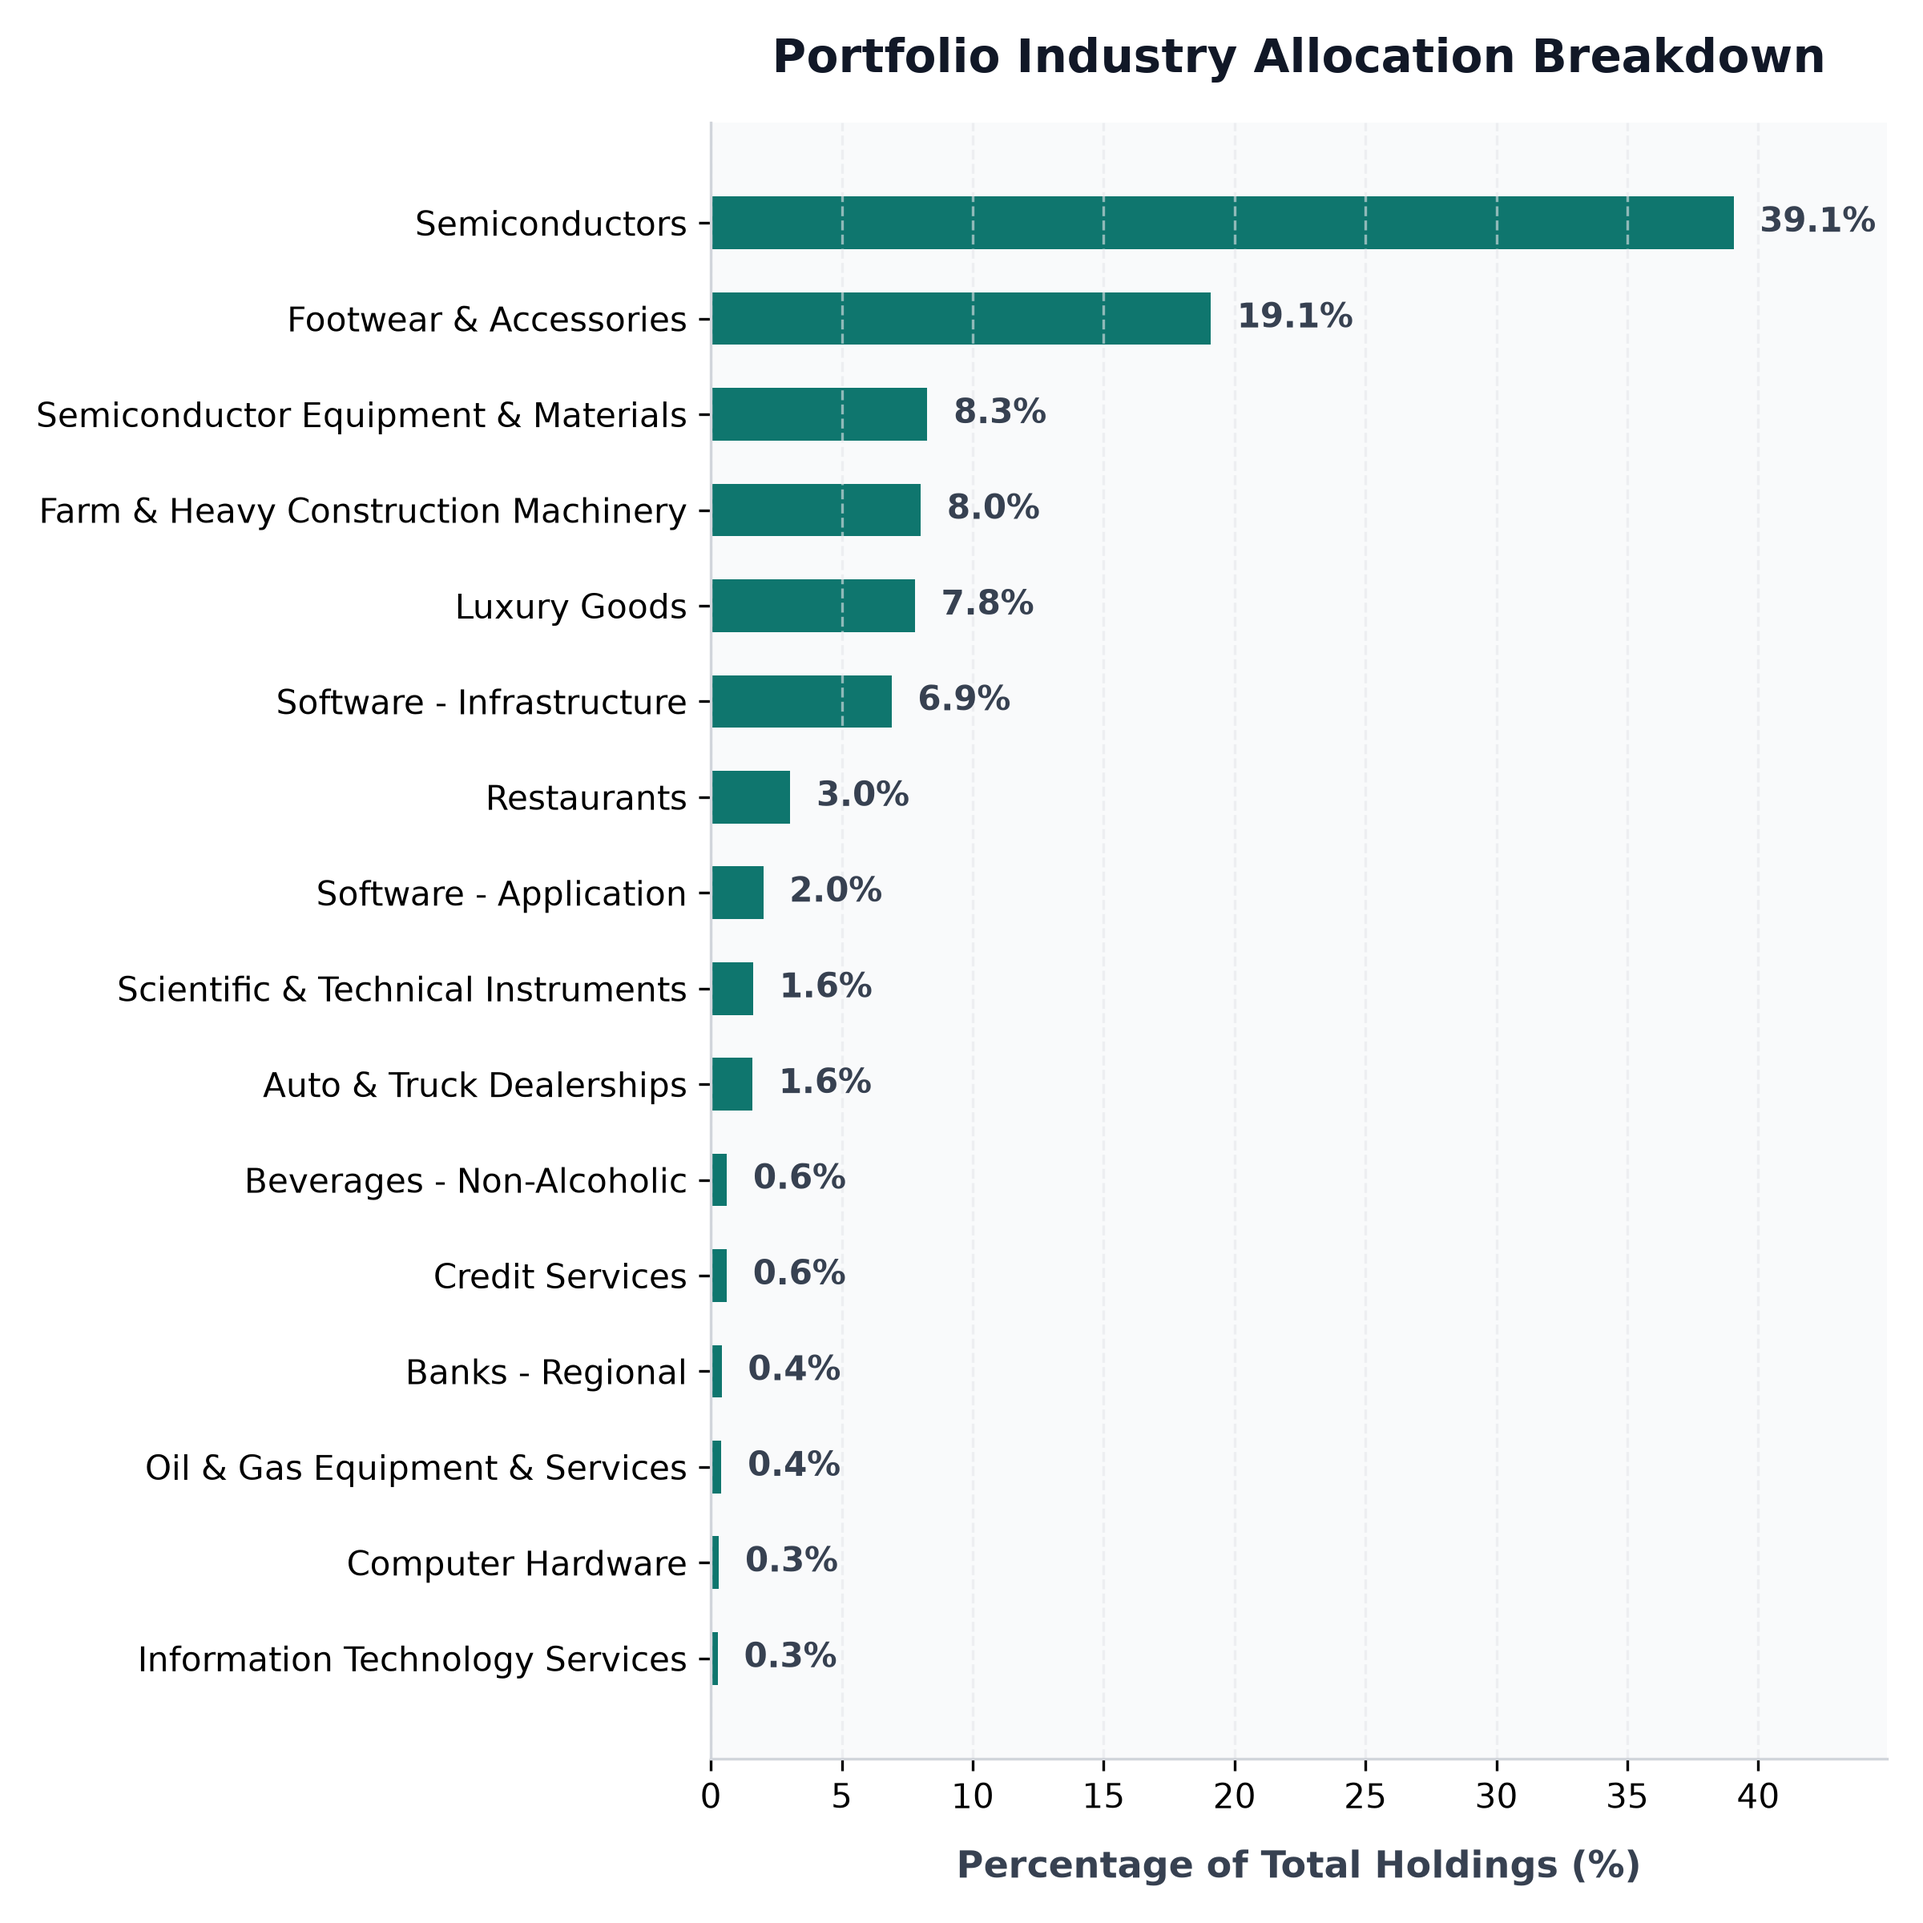
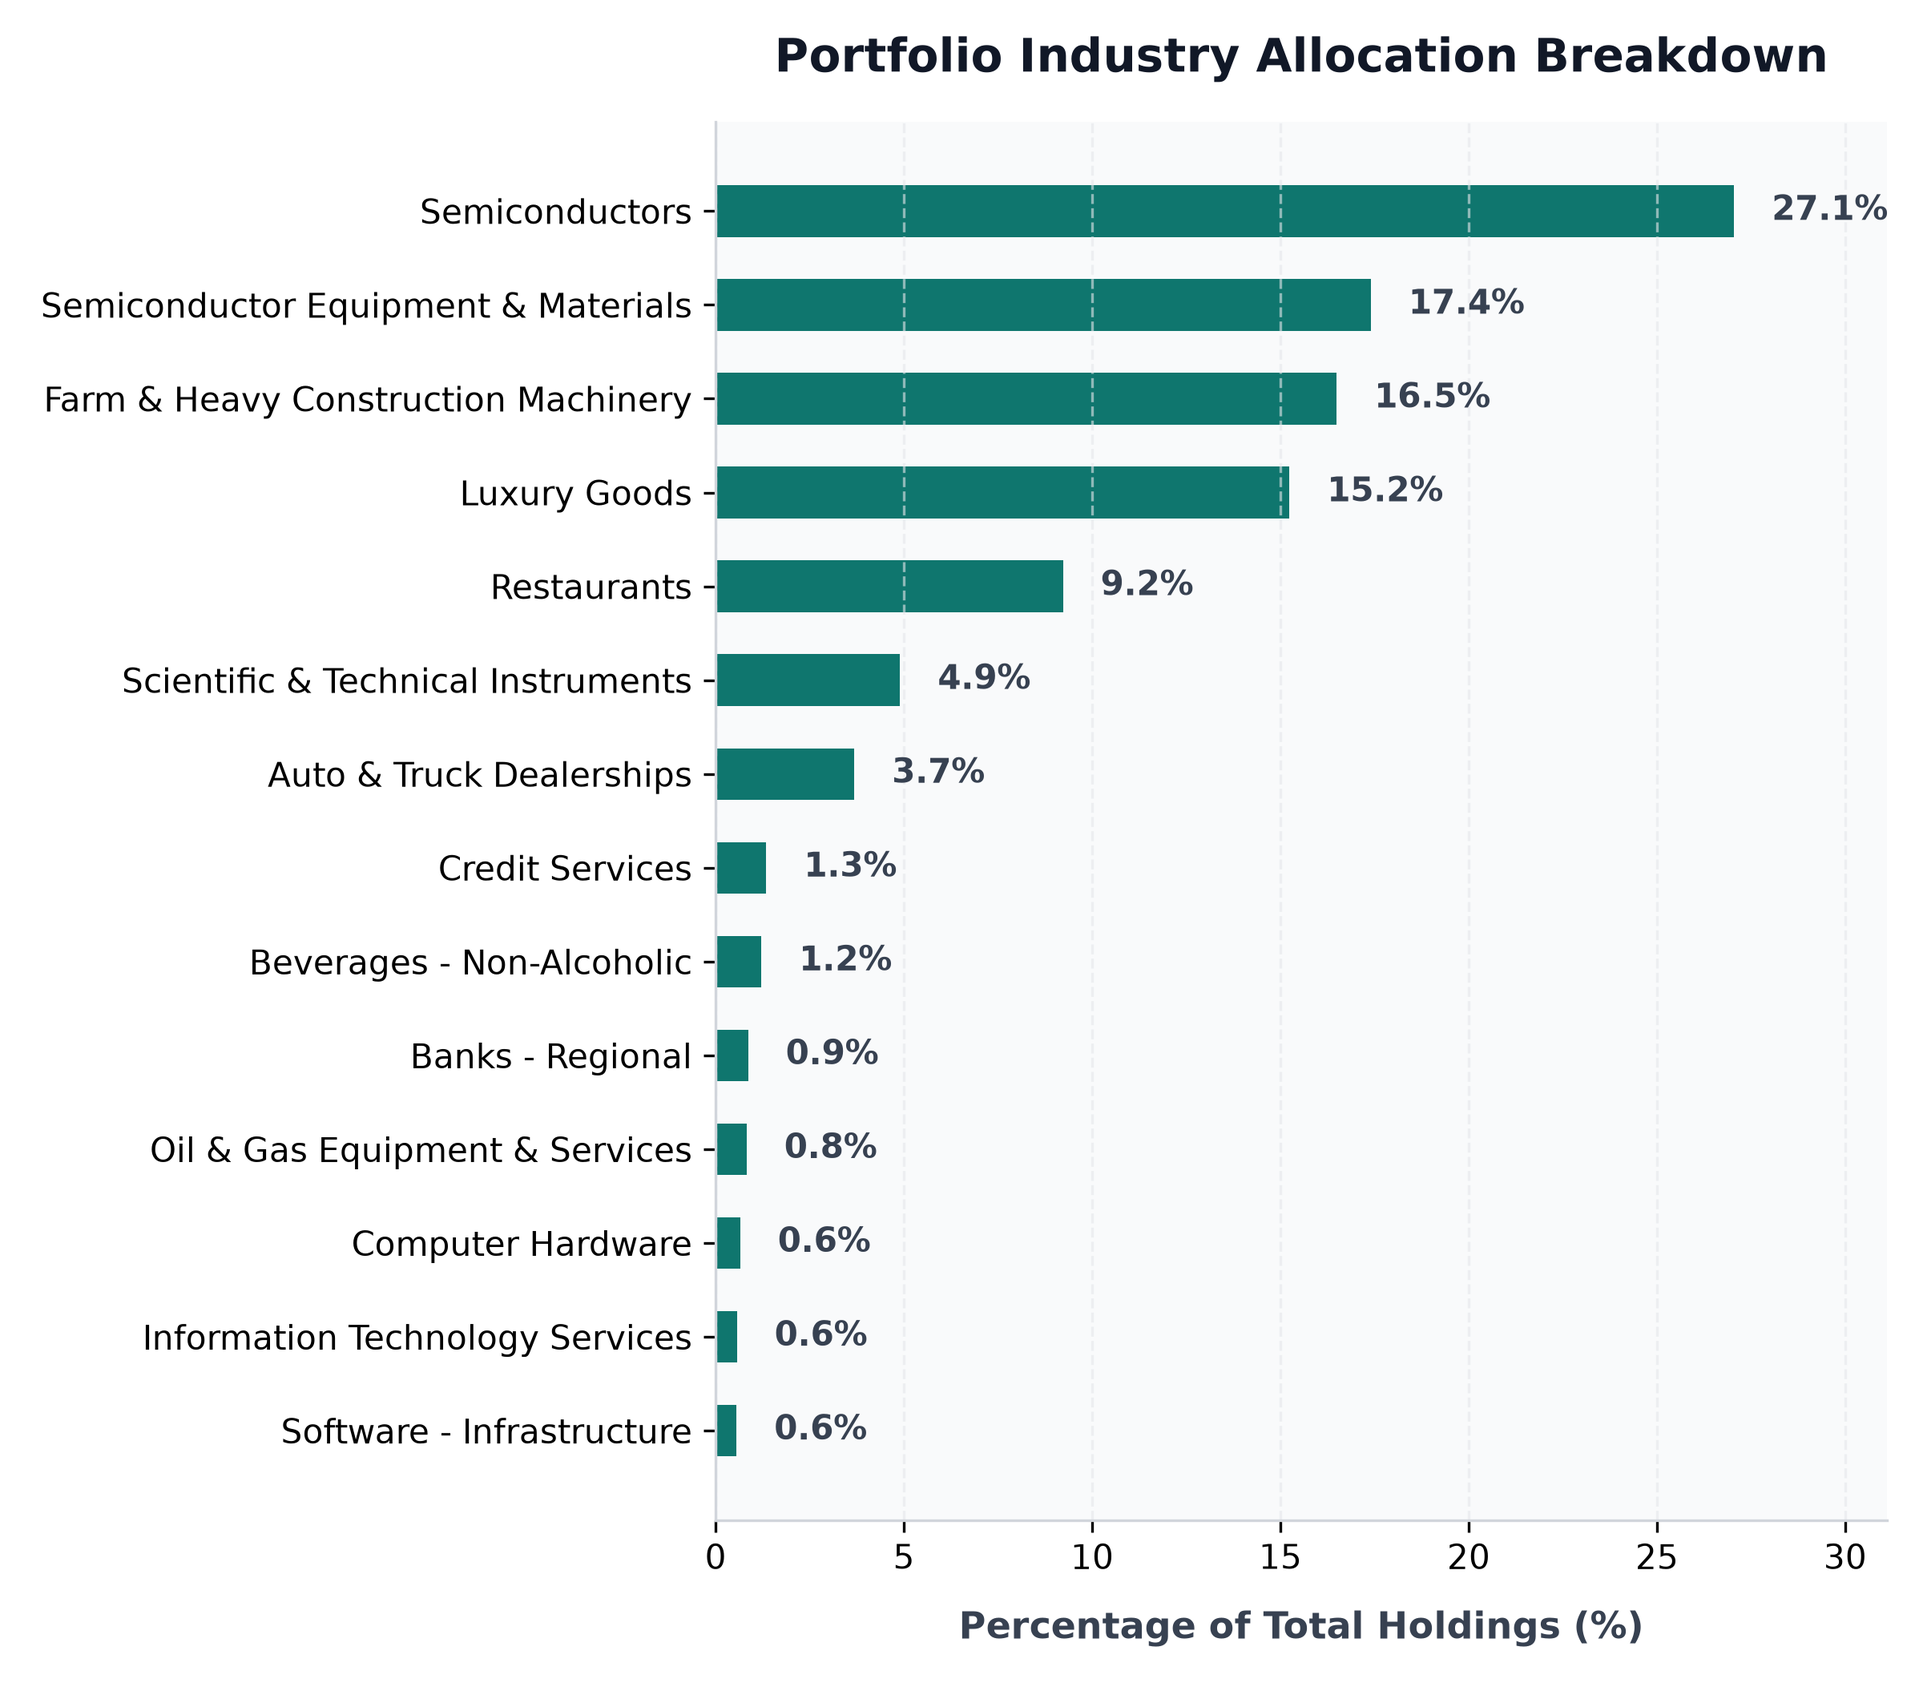
auto: daily portfolio status update - 2026-11-21 06:05:12

diff --git a/src/content/posts/portfolio-performance.md b/src/content/posts/portfolio-performance.md
@@ -1,6 +1,6 @@
 ---
 title: "BadOmen Algorithmic Portfolio Performance & PnL Report"
-pubDatetime: 2026-11-21T00:00:15.514154+08:00
+pubDatetime: 2026-11-21T06:05:12.624344+08:00
 description: "Live performance metrics, active holdings, and historic equity curve for the BadOmen automated paper trading portfolio."
 featured: true
 draft: false
@@ -16,11 +16,11 @@ Welcome to the live performance dashboard for **BadOmen**, our automated algorit
 ## 📊 Portfolio Summary
 | Performance Metric | Value | description |
 | :--- | :--- | :--- |
-| **Net Portfolio Equity** | **$96,818.51** | Total current liquidation value of cash and stock holdings |
-| **Total Unrealized P&L** | 🔴 **$-2,297.81** (-2.32%) | Total return of current open holdings |
-| **Cash Balance** | $24,218.11 | Idle reserve currency available for limit orders |
-| **Buying Power** | $285,134.61 | Margin-backed buying power for entry allocations |
-| **Report Updated** | `2026-11-21 00:00:15 (SGT)` | Timestamp of daily execution and sync run |
+| **Net Portfolio Equity** | **$95,846.89** | Total current liquidation value of cash and stock holdings |
+| **Total Unrealized P&L** | 🔴 **$-259.63** (-0.27%) | Total return of current open holdings |
+| **Cash Balance** | $72,025.62 | Idle reserve currency available for limit orders |
+| **Buying Power** | $351,489.62 | Margin-backed buying power for entry allocations |
+| **Report Updated** | `2026-11-21 06:05:12 (SGT)` | Timestamp of daily execution and sync run |
 
 ## 📈 Net Equity Growth Curve
 The chart below illustrates the historical performance of the account starting from our baseline capital funding of $100,000.00.
@@ -35,39 +35,32 @@ The chart below illustrates the exposure of our currently held active positions 
 ## 💼 Current Position Holdings
 | Ticker | Industry | Shares Owned | Average Entry Cost | Current Price | Unrealized P&L | Return (%) |
 | :--- | :--- | :--- | :--- | :--- | :--- | :--- |
-| **AN** | Auto & Truck Dealerships | 5 | $188.51 | $178.71 | 🔴 $-48.99 | -5.20% |
-| **AVGO** | Semiconductors | 1 | $385.71 | $315.60 | 🔴 $-70.11 | -18.18% |
-| **BIRK** | Footwear & Accessories | 407 | $37.32 | $34.05 | 🔴 $-1,329.96 | -8.76% |
-| **BLBD** | Farm & Heavy Construction Machinery | 103 | $62.88 | $56.49 | 🔴 $-657.90 | -10.16% |
-| **CELH** | Beverages - Non-Alcoholic | 15 | $29.71 | $29.75 | 🟢 +$0.63 | +0.14% |
-| **CPRI** | Luxury Goods | 310 | $13.78 | $18.25 | 🟢 +$1,385.70 | +32.44% |
-| **DUOL** | Software - Application | 10 | $129.49 | $145.15 | 🟢 +$156.59 | +12.09% |
-| **GDS** | Information Technology Services | 14 | $32.77 | $13.79 | 🔴 $-265.72 | -57.92% |
-| **GPI** | Auto & Truck Dealerships | 1 | $316.15 | $263.38 | 🔴 $-52.77 | -16.69% |
-| **ITRI** | Scientific & Technical Instruments | 12 | $81.80 | $97.93 | 🟢 +$193.56 | +19.72% |
-| **LRCX** | Semiconductor Equipment & Materials | 32 | $205.59 | $187.61 | 🔴 $-575.26 | -8.74% |
-| **MRVL** | Semiconductors | 75 | $131.18 | $126.00 | 🔴 $-388.86 | -3.95% |
-| **NESR** | Oil & Gas Equipment & Services | 16 | $28.74 | $18.40 | 🔴 $-165.44 | -35.98% |
-| **NU** | Banks - Regional | 26 | $11.60 | $11.54 | 🔴 $-1.52 | -0.51% |
-| **NVDA** | Semiconductors | 90 | $140.29 | $137.10 | 🔴 $-286.79 | -2.27% |
-| **ON** | Semiconductors | 100 | $63.55 | $62.41 | 🔴 $-113.70 | -1.79% |
-| **ORCL** | Software - Infrastructure | 46 | $107.95 | $104.46 | 🔴 $-160.54 | -3.23% |
-| **PATH** | Software - Infrastructure | 18 | $10.25 | $11.24 | 🟢 +$17.82 | +9.66% |
-| **PYPL** | Credit Services | 8 | $56.05 | $55.17 | 🔴 $-7.04 | -1.57% |
-| **SMCI** | Computer Hardware | 10 | $29.25 | $22.46 | 🔴 $-67.90 | -23.21% |
-| **WEN** | Restaurants | 257 | $8.02 | $8.57 | 🟢 +$140.39 | +6.81% |
+| **AN** | Auto & Truck Dealerships | 5 | $188.51 | $175.48 | 🔴 $-65.14 | -6.91% |
+| **BLBD** | Farm & Heavy Construction Machinery | 69 | $62.88 | $56.95 | 🔴 $-408.99 | -9.43% |
+| **CELH** | Beverages - Non-Alcoholic | 10 | $29.71 | $28.96 | 🔴 $-7.51 | -2.53% |
+| **CPRI** | Luxury Goods | 207 | $13.78 | $17.54 | 🟢 +$778.32 | +27.29% |
+| **GDS** | Information Technology Services | 10 | $32.77 | $13.42 | 🔴 $-193.50 | -59.05% |
+| **ITRI** | Scientific & Technical Instruments | 12 | $81.80 | $97.24 | 🟢 +$185.28 | +18.88% |
+| **LRCX** | Semiconductor Equipment & Materials | 22 | $205.59 | $188.44 | 🔴 $-377.21 | -8.34% |
+| **NESR** | Oil & Gas Equipment & Services | 11 | $28.74 | $17.78 | 🔴 $-120.56 | -38.14% |
+| **NU** | Banks - Regional | 18 | $11.60 | $11.40 | 🔴 $-3.57 | -1.71% |
+| **NVDA** | Semiconductors | 50 | $131.40 | $128.89 | 🔴 $-125.35 | -1.91% |
+| **PATH** | Software - Infrastructure | 12 | $10.25 | $11.00 | 🟢 +$9.00 | +7.32% |
+| **PYPL** | Credit Services | 6 | $56.05 | $53.43 | 🔴 $-15.73 | -4.68% |
+| **SMCI** | Computer Hardware | 7 | $29.25 | $22.12 | 🔴 $-49.91 | -24.38% |
+| **WEN** | Restaurants | 257 | $8.02 | $8.55 | 🟢 +$135.25 | +6.56% |
 
 ## 🔴 Recent Realized Trades
 | Ticker | Shares Sold | Entry Price | Exit Price | Strategy Trigger | Realized Return | Exit Date |
 | :--- | :--- | :--- | :--- | :--- | :--- | :--- |
-| **BLBD** | 51 | $61.73 | $57.33 | Exit Strategy (Growth Decel / SMA break) | 🔴 **$-224.40** (-7.13%) | 2026-11-20 |
-| **CELH** | 7 | $29.71 | $31.29 | Exit Strategy (Growth Decel / SMA break) | 🟢 **+$+11.04** (++5.31%) | 2026-11-20 |
-| **CPRI** | 154 | $13.78 | $18.47 | Tier 1: Profit Lock (Up 30-50%) | 🟢 **+$+722.26** (++34.03%) | 2026-11-20 |
-| **GDS** | 6 | $32.77 | $14.68 | Exit Strategy (Growth Decel / SMA break) | 🔴 **$-108.54** (-55.20%) | 2026-11-20 |
-| **GPI** | 1 | $316.15 | $257.17 | Exit Strategy (Growth Decel / SMA break) | 🔴 **$-58.98** (-18.66%) | 2026-11-20 |
-| **LRCX** | 15 | $204.66 | $210.09 | Exit Strategy (Growth Decel / SMA break) | 🟢 **+$+81.46** (++2.65%) | 2026-11-20 |
-| **MRVL** | 34 | $150.99 | $143.26 | Exit Strategy (Growth Decel / SMA break) | 🔴 **$-262.82** (-5.12%) | 2026-11-20 |
-| **NESR** | 7 | $28.74 | $19.98 | Exit Strategy (Growth Decel / SMA break) | 🔴 **$-61.32** (-30.48%) | 2026-11-20 |
-| **NU** | 12 | $11.60 | $11.90 | Exit Strategy (Growth Decel / SMA break) | 🟢 **+$+3.64** (++2.61%) | 2026-11-20 |
-| **ORCL** | 44 | $118.23 | $112.81 | Exit Strategy (Growth Decel / SMA break) | 🔴 **$-238.35** (-4.58%) | 2026-11-20 |
+| **AVGO** | 1 | $385.71 | $311.03 | Exit Strategy (Growth Decel / SMA break) | 🔴 **$-74.68** (-19.36%) | 2026-11-21 |
+| **BIRK** | 407 | $35.36 | $33.49 | Exit Strategy (Growth Decel / SMA break) | 🔴 **$-761.09** (-5.29%) | 2026-11-21 |
+| **BLBD** | 34 | $61.73 | $55.79 | Exit Strategy (Growth Decel / SMA break) | 🔴 **$-201.96** (-9.62%) | 2026-11-21 |
+| **CELH** | 5 | $29.71 | $29.50 | Exit Strategy (Growth Decel / SMA break) | 🔴 **$-1.06** (-0.72%) | 2026-11-21 |
+| **CPRI** | 103 | $13.78 | $17.98 | Tier 1: Profit Lock (Up 30-50%) | 🟢 **+$+432.60** (++30.48%) | 2026-11-21 |
+| **DUOL** | 10 | $127.16 | $146.26 | Exit Strategy (Growth Decel / SMA break) | 🟢 **+$+191.00** (++15.02%) | 2026-11-21 |
+| **GDS** | 4 | $32.77 | $13.48 | Exit Strategy (Growth Decel / SMA break) | 🔴 **$-77.16** (-58.86%) | 2026-11-21 |
+| **GPI** | 1 | $316.15 | $260.42 | Exit Strategy (Growth Decel / SMA break) | 🔴 **$-55.73** (-17.63%) | 2026-11-21 |
+| **LRCX** | 10 | $204.66 | $185.01 | Exit Strategy (Growth Decel / SMA break) | 🔴 **$-196.55** (-9.60%) | 2026-11-21 |
+| **MRVL** | 75 | $130.13 | $125.10 | Exit Strategy (Growth Decel / SMA break) | 🔴 **$-377.08** (-3.86%) | 2026-11-21 |
 
